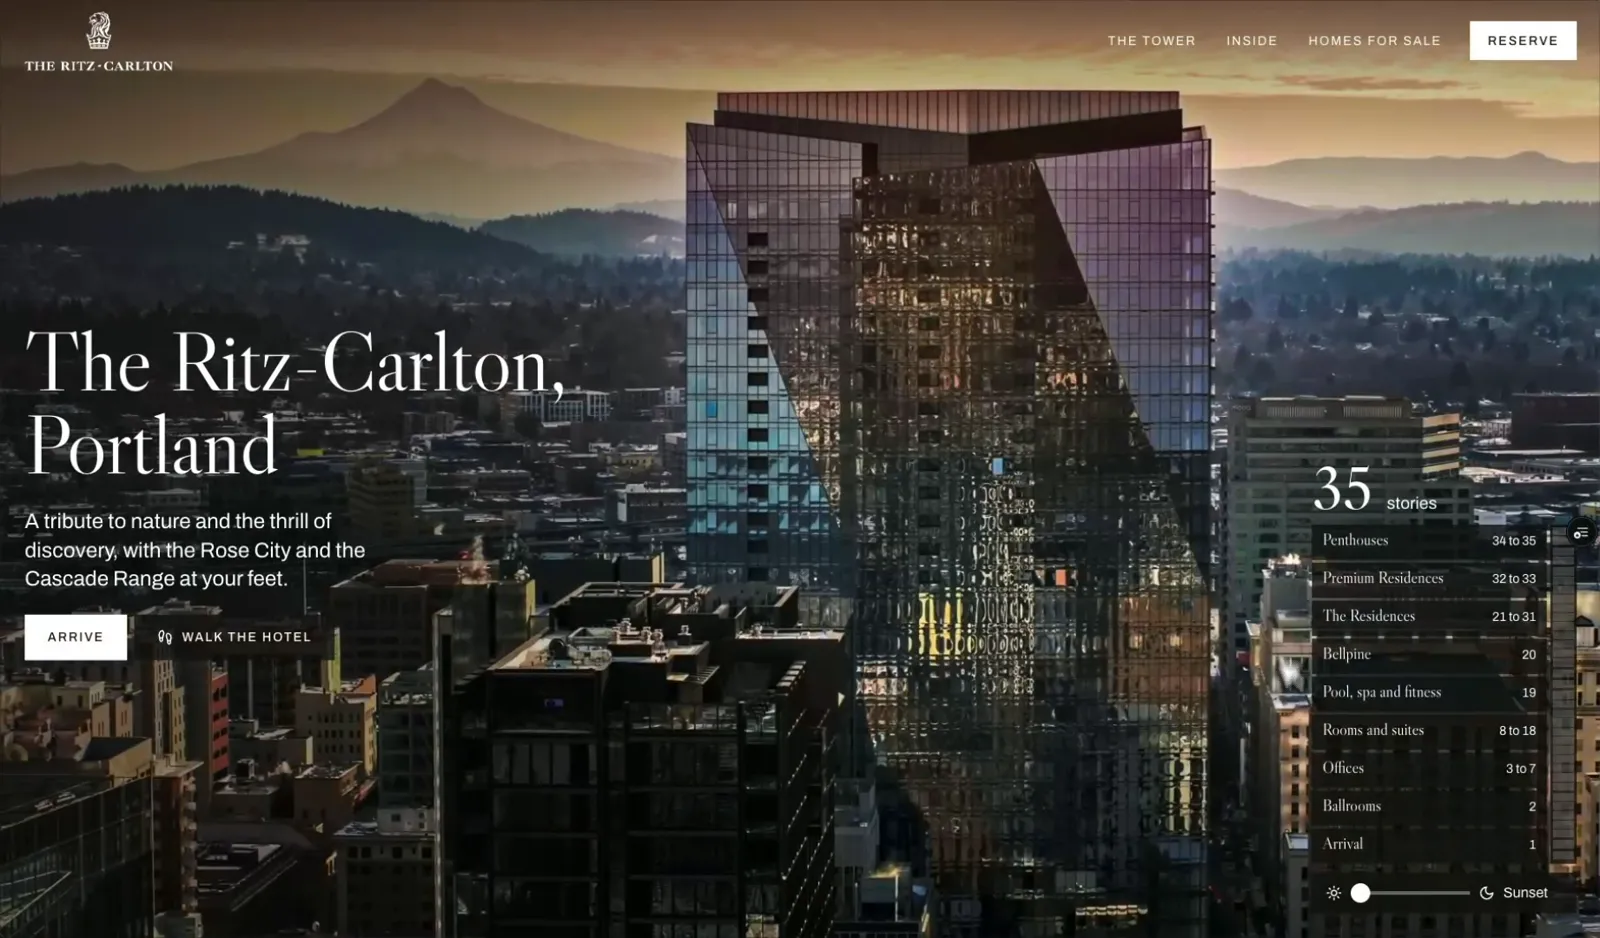
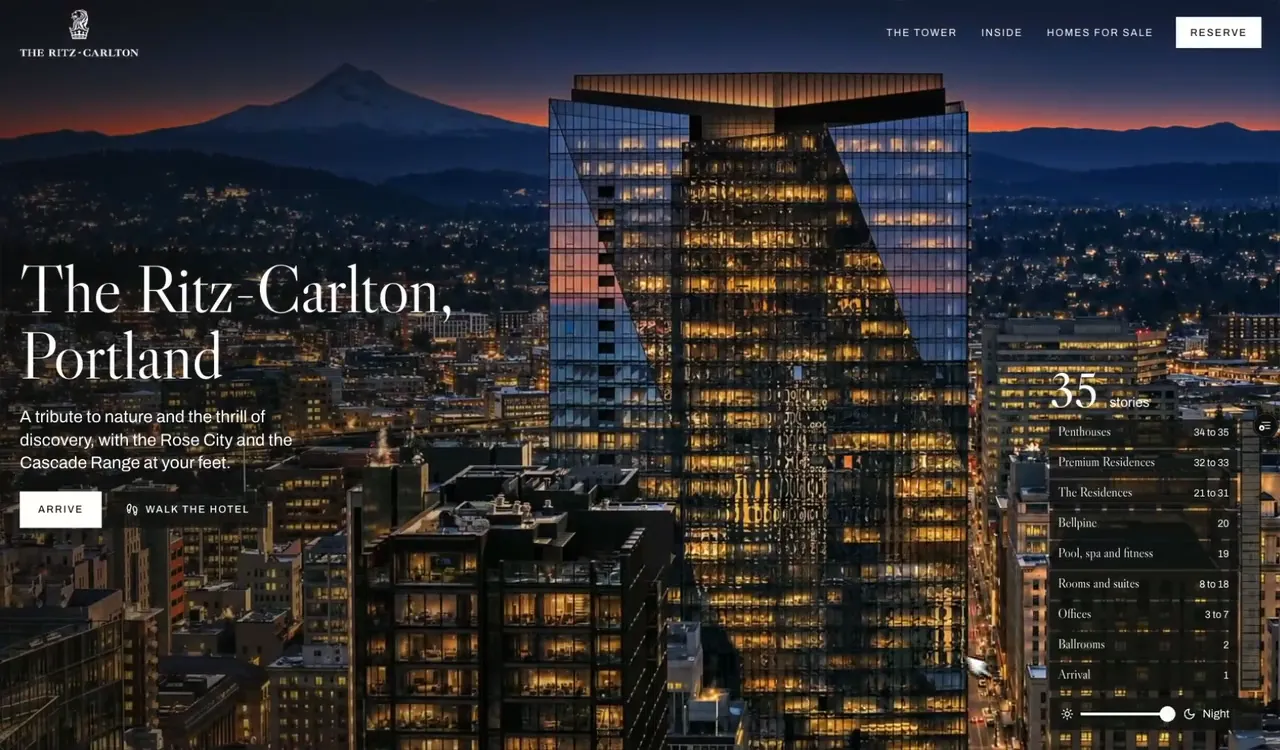
feat: /signature reels are twenty-second cuts at double speed, the Fernwood gets its own, label reads Limited time offer (#262)

diff --git a/lib/signature/showcase.ts b/lib/signature/showcase.ts
@@ -14,7 +14,7 @@ export type ShowcaseView = {
   alt: string;
 };
 
-/** A silent screen recording of the build in use. It streams from the build's own host (media-src in next.config.mjs). */
+/** A silent screen recording of the build in use: a cut of about twenty seconds, at double speed. It streams from the build's own host (media-src in next.config.mjs). */
 export type Reel = {
   src: string;
   /** A lighter encode for phones. */
@@ -54,8 +54,8 @@ export const SHOWCASE: ShowcaseEntry[] = [
     ],
     note: "Concept build made from publicly published material. Not affiliated with or endorsed by The Ritz-Carlton Hotel Company, Marriott International or the owner of The Residences.",
     reel: {
-      src: "https://theritzpdx.vercel.app/reel/tour-1280.mp4",
-      srcSmall: "https://theritzpdx.vercel.app/reel/tour-768.mp4",
+      src: "https://theritzpdx.vercel.app/reel/tour2x-1280.mp4",
+      srcSmall: "https://theritzpdx.vercel.app/reel/tour2x-768.mp4",
       poster: "/signature/ritz-tour.webp",
       w: 1280,
       h: 750,
@@ -80,6 +80,13 @@ export const SHOWCASE: ShowcaseEntry[] = [
       ["Plans, room by room", "3D"],
     ],
     note: "A fictional property, built to show the product on a mid-rise apartment building.",
+    reel: {
+      src: "https://fernwood-demo.vercel.app/reel/tour2x-1280.mp4",
+      srcSmall: "https://fernwood-demo.vercel.app/reel/tour2x-768.mp4",
+      poster: "/signature/fernwood-tour.webp",
+      w: 1280,
+      h: 750,
+    },
     views: [
       { label: "The building", url: "https://fernwood-demo.vercel.app/", poster: "/signature/fernwood.webp", posterW: 1600, posterH: 1000, alt: "A six-story apartment building with a floor picker listing the homes open on level six" },
     ],

diff --git a/app/(platform)/signature/page.tsx b/app/(platform)/signature/page.tsx
@@ -48,7 +48,7 @@ export default function SignaturePage() {
         <div className="relative pt-14 md:pt-20 pb-12 md:pb-16">
           <div aria-hidden className="absolute inset-0 pointer-events-none" style={{ backgroundImage: "linear-gradient(180deg, #ffffff 0%, #ffffff 38%, #f7f9fe 100%)" }} />
           <div className="relative text-center">
-            <LabelChip>Premium add-on</LabelChip>
+            <LabelChip>Limited time offer</LabelChip>
             <h1 className="mx-auto mt-5" style={{ color: INK, fontFamily: "var(--font-display)", fontSize: "clamp(44px, 7vw, 92px)", fontWeight: 550, lineHeight: 1.02, letterSpacing: "-0.04em", maxWidth: 1040 }}>
               A private page for every residence.
             </h1>
